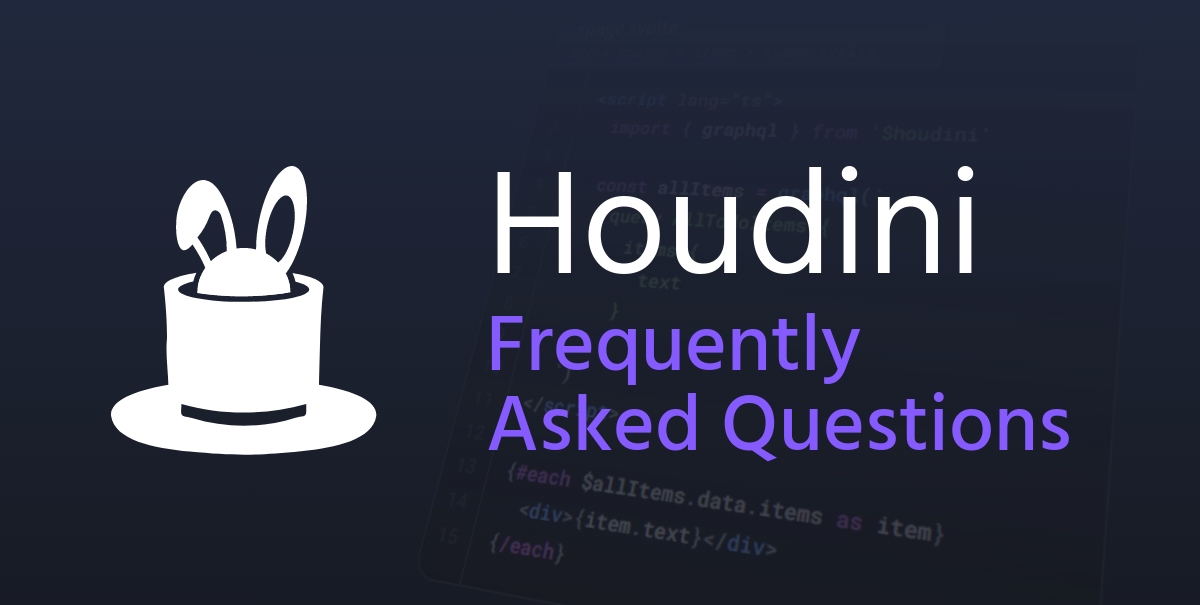
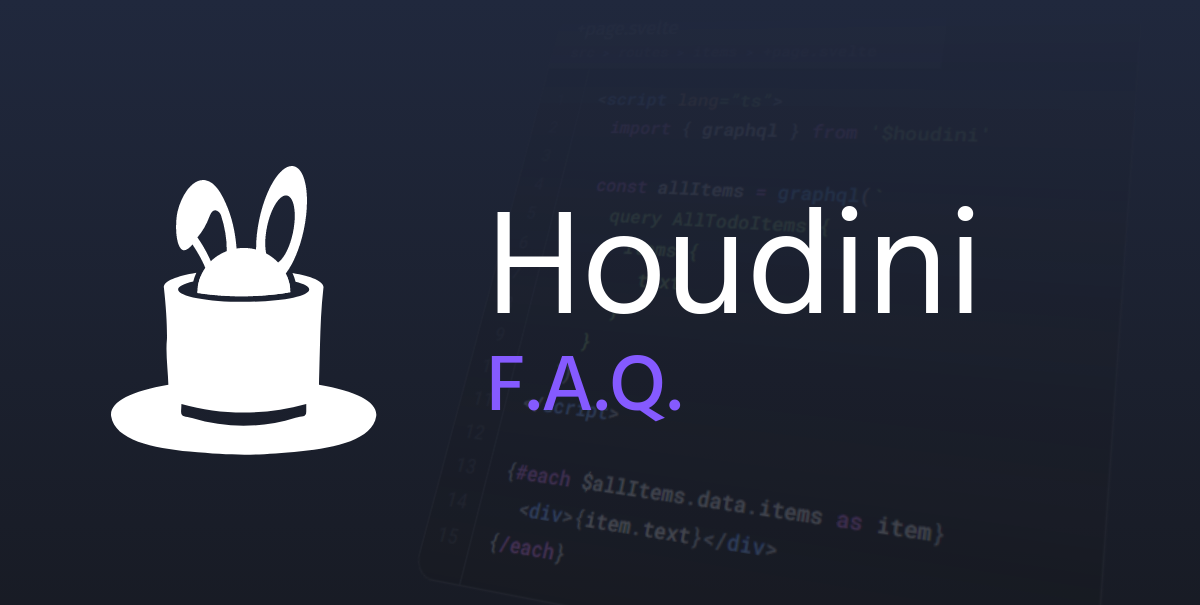
:bug: FIX: faq to be faq

Changed region(s): [[0.4008, 0.2678, 0.8942, 0.7736], [0.7708, 0.4463, 0.8325, 0.5355], [0.8017, 0.2678, 0.8325, 0.2975]]

diff --git a/site/src/components/OgCard.svelte b/site/src/components/OgCard.svelte
@@ -15,7 +15,7 @@
 
 		<div>
 			<div id="title">Houdini</div>
-			<div id="subTitle">{subTitle?.replace('graphql', 'GraphQL').replace(/-/g, ' ') ?? ''}</div>
+			<div id="subTitle">{subTitle ?? ''}</div>
 		</div>
 	</div>
 </div>
@@ -85,7 +85,6 @@
 		font-weight: 500;
 		font-size: 80px;
 		color: var(--highlight);
-		text-transform: capitalize;
 		/* The perfect value! */
 		width: 604px;
 	}
